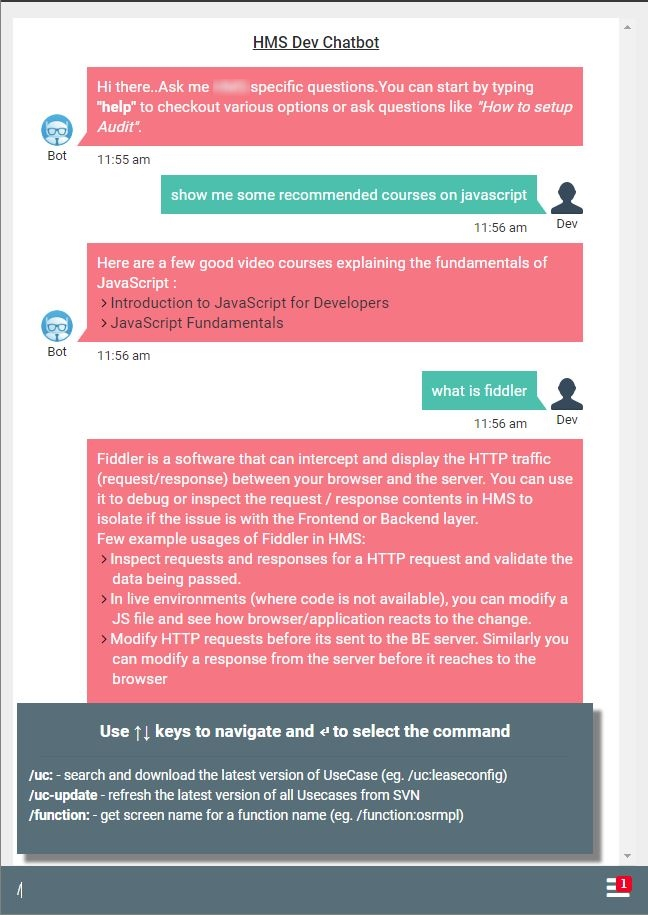
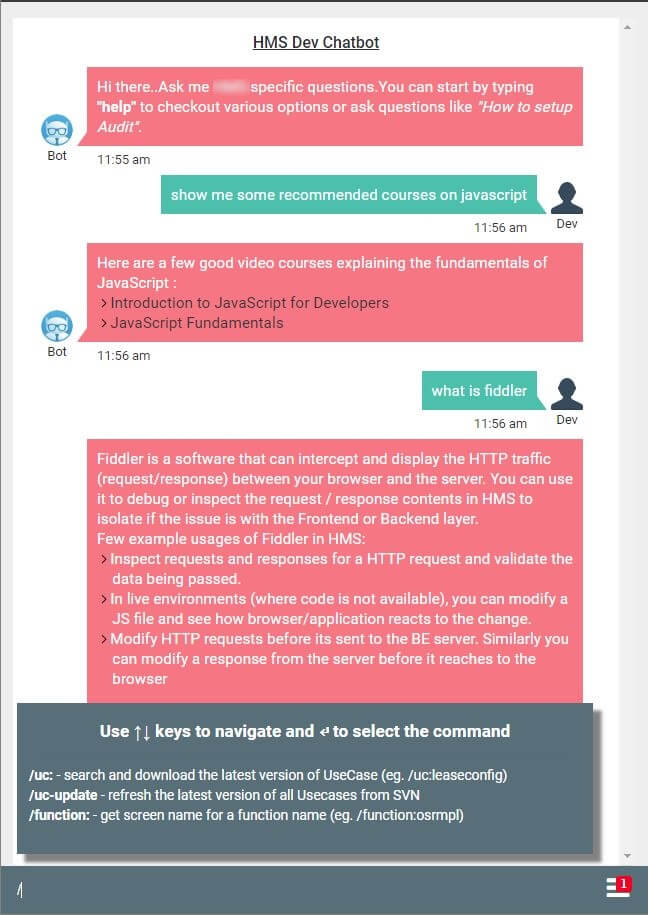
Minified the images for faster downloads.

diff --git a/content/blog/skip-youtube-ads-on-android.md b/content/blog/skip-youtube-ads-on-android.md
@@ -1,0 +1,12 @@
+---
+title: "How to skip those pesky Youtube adverts on your android phone."
+date: 2021-02-02T09:59:47+05:30
+description: "If those youtube advertisements and interruptions have annoyed the hell out of you, you can automate skipping them using this android automation."
+tags: [android, youtube, diy]
+---
+
+I will be upfront about my skills to be frugal. I do not want to spend any money just to watch Youtube without interruptions and advertisements. As it happens, by the end of last year, I was so fedup with the adverts that I was almost about to subscribe. But the frugal person in me said to stop and see if there's a (free) way around it.
+
+I use an automation app called "Automatic Premium" on my mobile that automates few of the frequent chores in my life. We may go over those in a separate post. 
+I got an idea. What if I find the `"Skip ads ->"` button while Youtube app is playing and tap on it automatically as soon as it allows that (yes, sometimes Youtube shows a countdown before displaying the Skip ads button).
+
